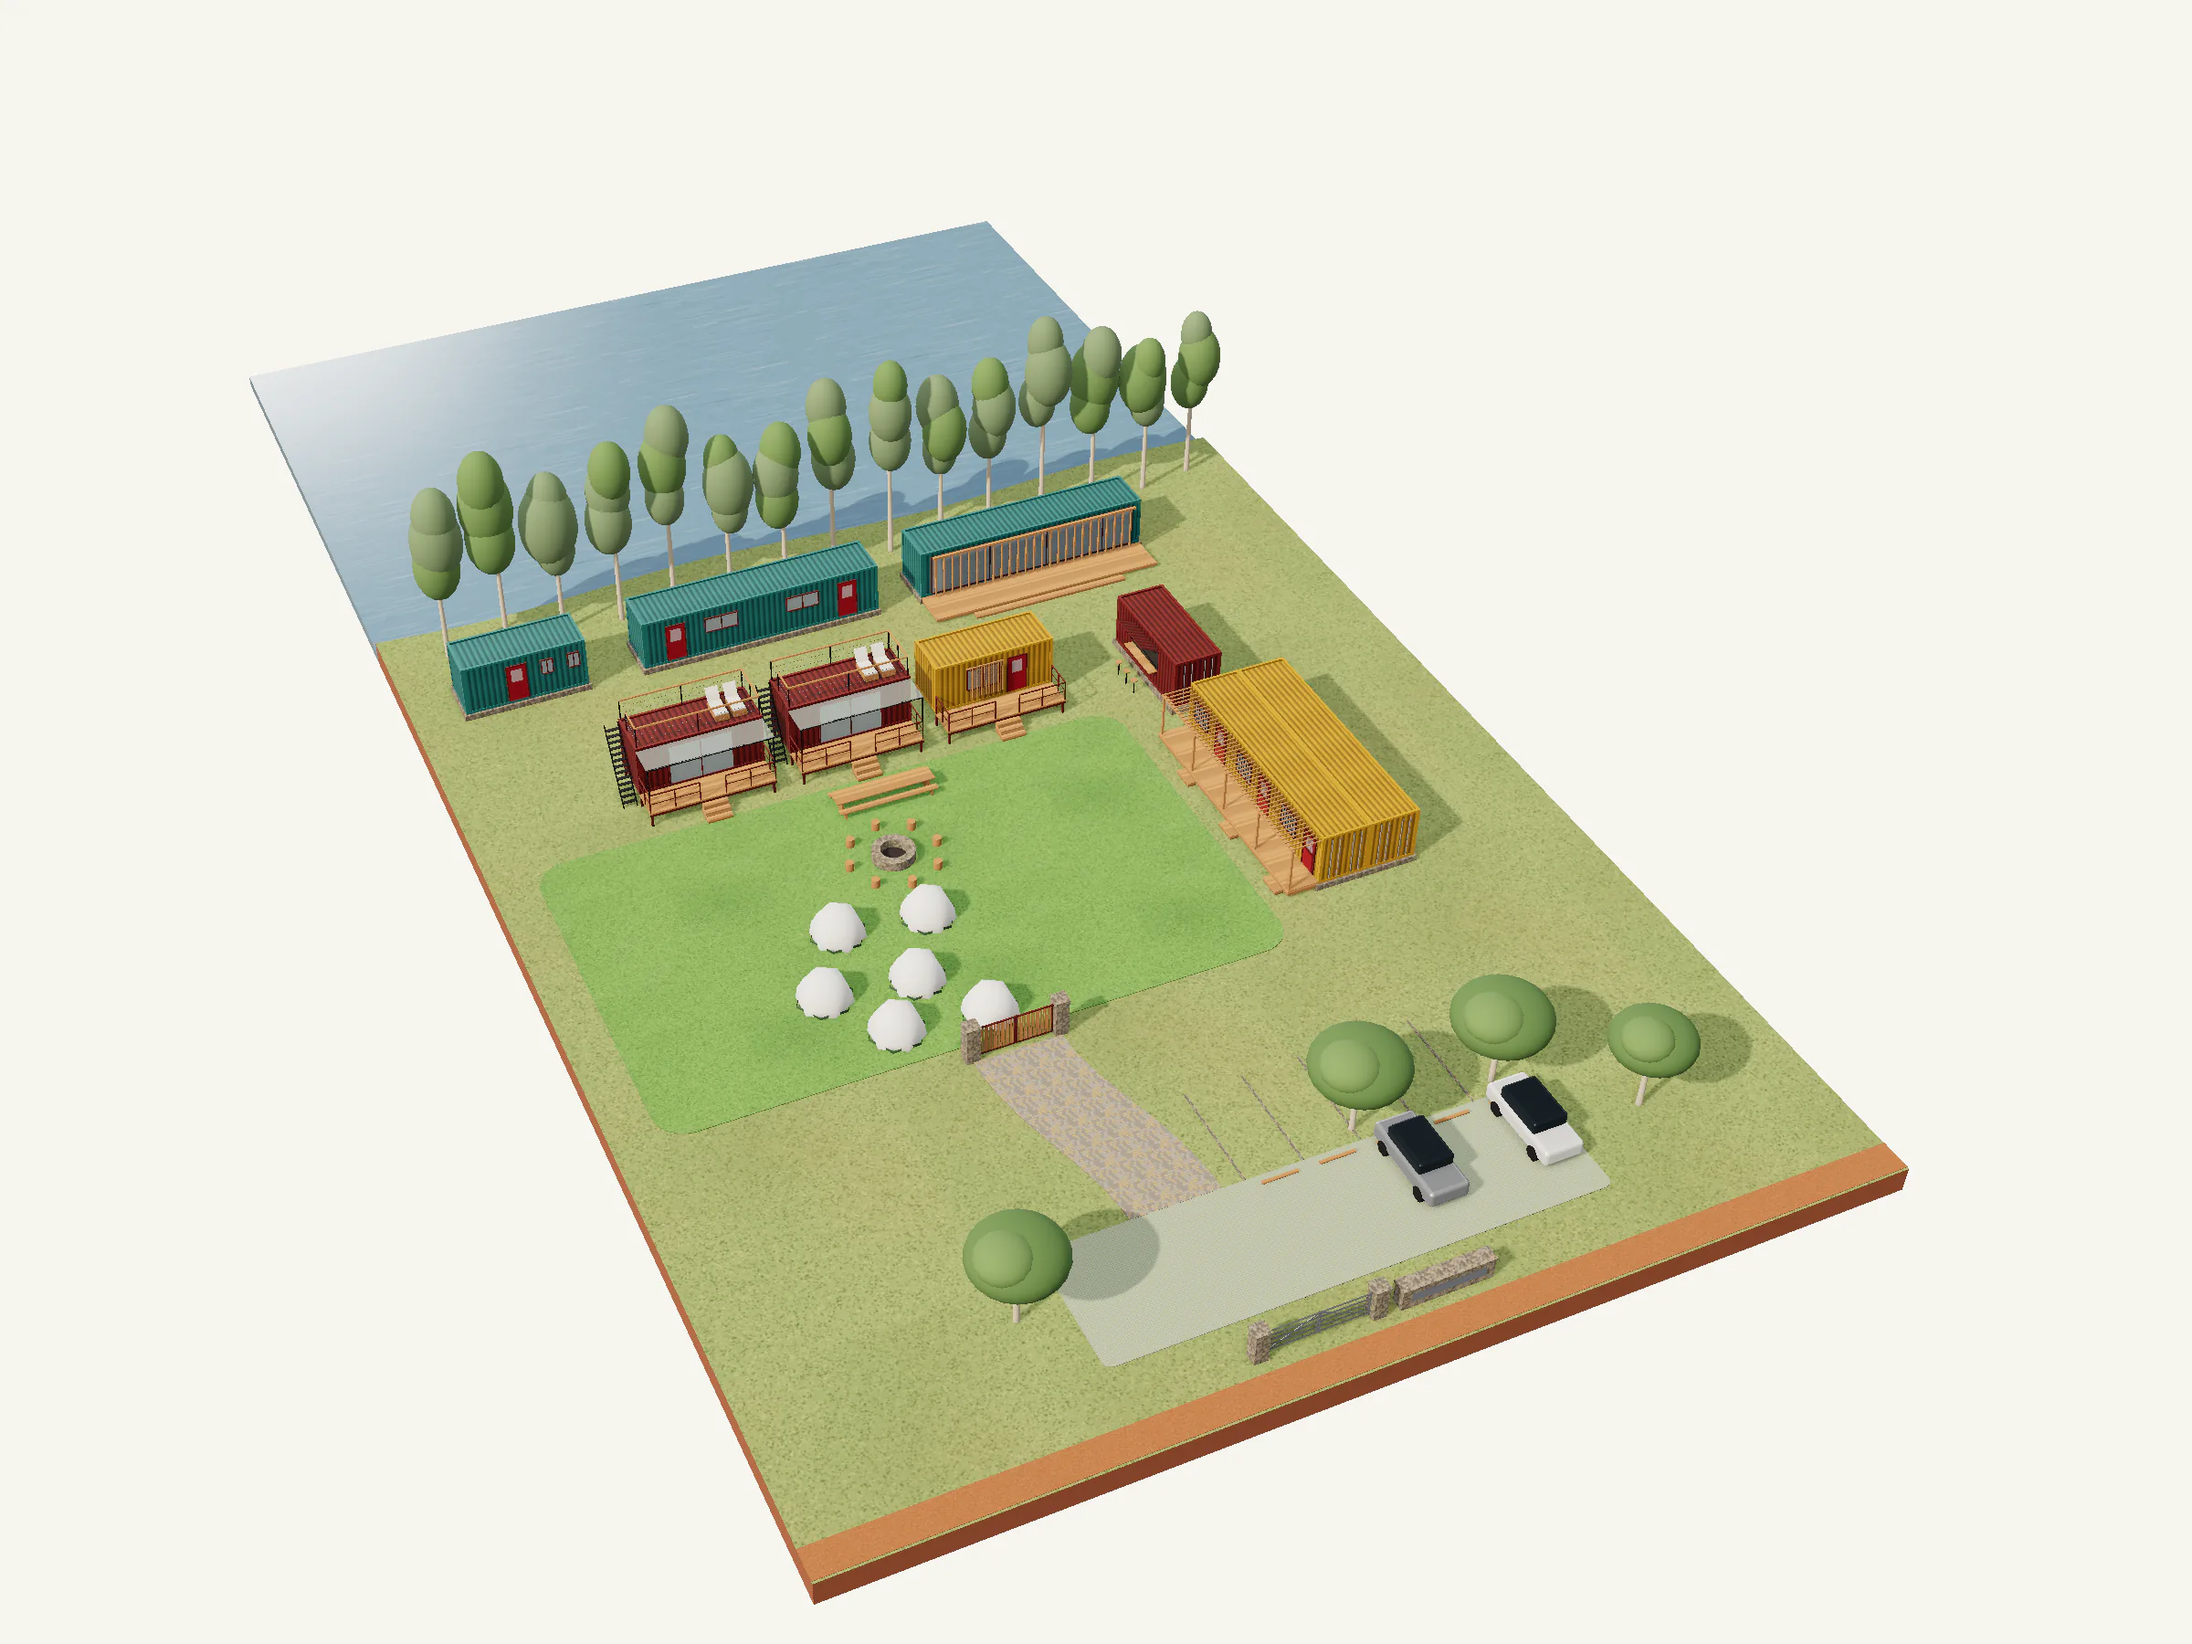
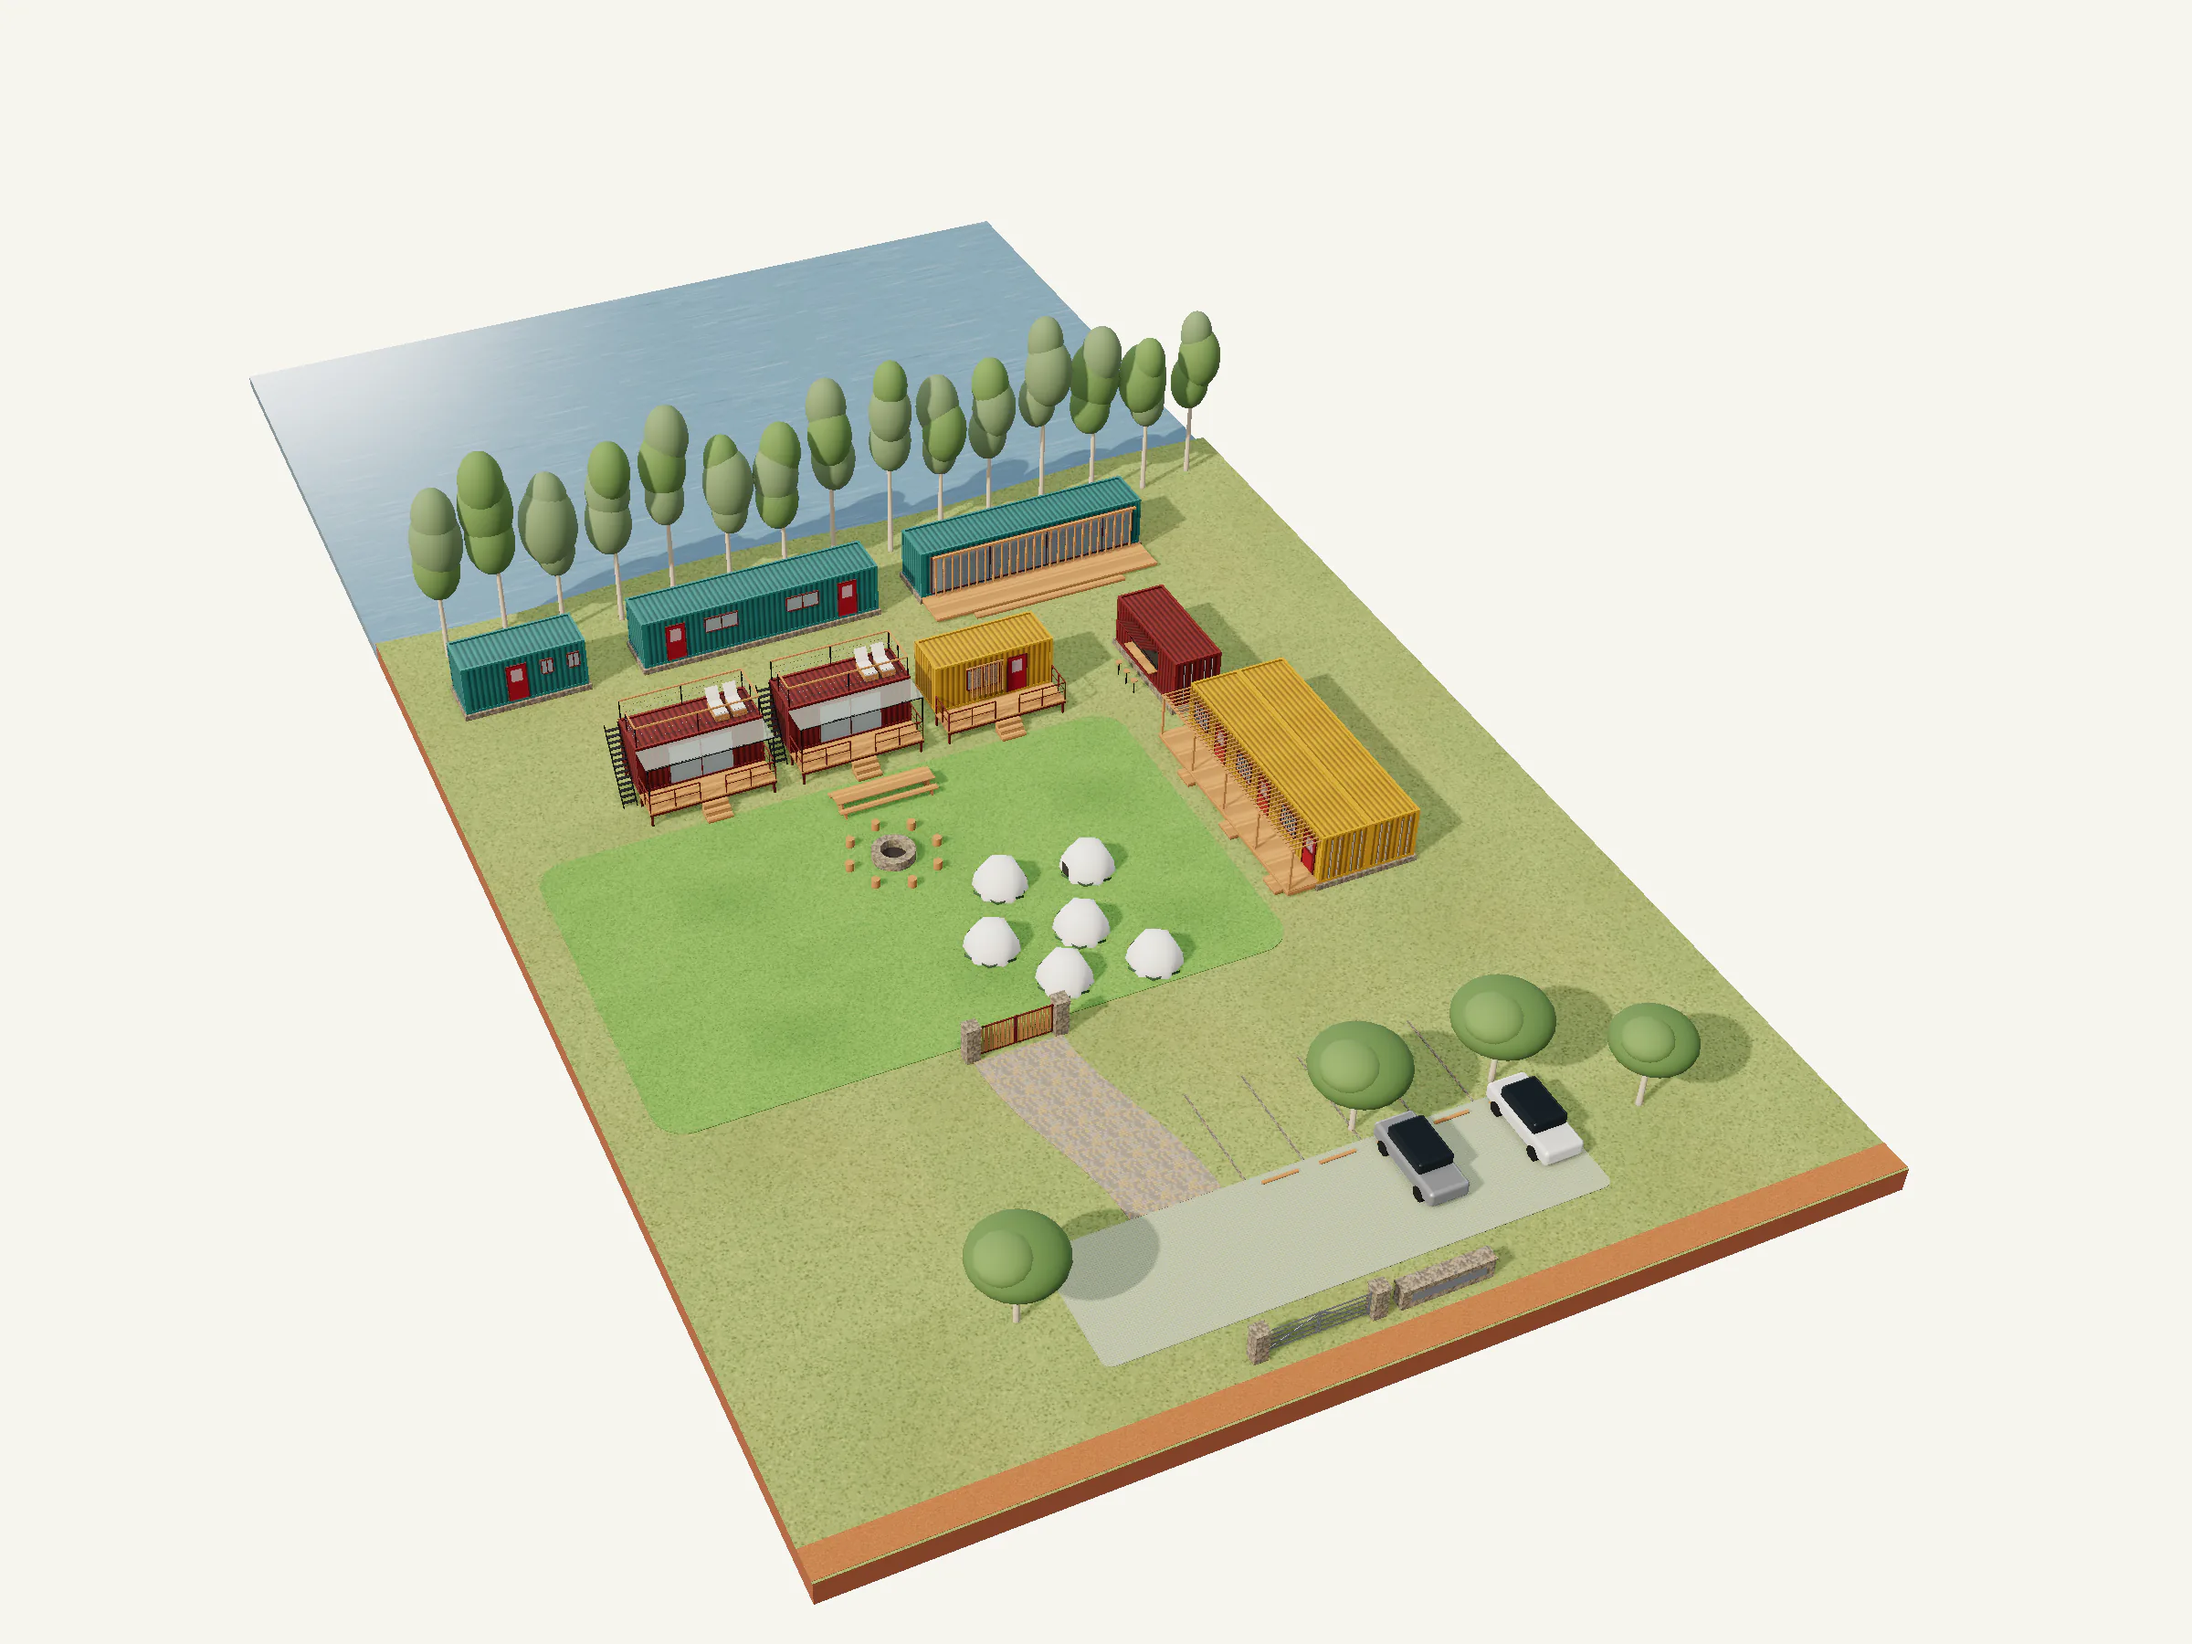
fix(home): camping runs from the fire pit toward the guest rooms
The founder meant the camping lawn to end at the fire pit on the guest-room
side: it now sits between the guest rooms and the fire pit, its right end
flush with the pit's left edge, set a little toward the inner gate. The walk
from the inner gate to the fire is clear again; both drawings are redone.

Claude-Session: https://claude.ai/code/session_01S6J7Hi5HC8BwLHu6Wj1ANE

Changed region(s): [[0.3438, 0.4978, 0.5625, 0.6533]]

diff --git a/src/components/home/copy.ts b/src/components/home/copy.ts
@@ -52,12 +52,12 @@ export const copy = {
   plans: {
     title: "2D",
     label:
-      "Plan of the compound, with the study room at the top and the gates at the bottom. At the top, the 40 ft study room on its deck, and beside it two buildings of their own: a 40 ft galley with a long worktop and two sinks, and a 20 ft public bathroom with two toilet rooms, two hand basins and a urinal. Below it, the row of three 20 ft containers on raised decks facing the courtyard: the farm office next to the bar, then two studios. Down the left, the bar and then the guest-room block in one line, their doors onto the veranda and the courtyard lawn: the stone fire pit with stools round it, a long timber table in front of the middle studio, and six small tents on a camping lawn between the fire pit and the inner gate. The study room's end is in line with the guest rooms. At the bottom, the inner gate, a rock road down to the green parking, and the outer gate beside the Digital Farm sign wall.",
+      "Plan of the compound, with the study room at the top and the gates at the bottom. At the top, the 40 ft study room on its deck, and beside it two buildings of their own: a 40 ft galley with a long worktop and two sinks, and a 20 ft public bathroom with two toilet rooms, two hand basins and a urinal. Below it, the row of three 20 ft containers on raised decks facing the courtyard: the farm office next to the bar, then two studios. Down the left, the bar and then the guest-room block in one line, their doors onto the veranda and the courtyard lawn: the stone fire pit with stools round it, a long timber table in front of the middle studio, and six small tents on a camping lawn between the guest rooms and the fire pit, ending at the fire. The study room's end is in line with the guest rooms. At the bottom, the inner gate, a rock road down to the green parking, and the outer gate beside the Digital Farm sign wall.",
     note: "Illustrative plan: containers drawn to size, layout not surveyed.",
   },
   model: {
     title: "3D",
-    line: "Line drawing of the compound from the air, seen from the entrance and looking toward the lake: the gate, the parking and the rock road in front; on the right, the bar and the guest-room block with their doors onto the courtyard and its fire pit ringed with stools; six small tents on the lawn by the inner gate; across the lawn, a long timber table and the office and two studios on raised decks; the study room beyond them; then trees and the lake.",
+    line: "Line drawing of the compound from the air, seen from the entrance and looking toward the lake: the gate, the parking and the rock road in front; on the right, the bar and the guest-room block with their doors onto the courtyard and its fire pit ringed with stools; six small tents on the lawn between them and the fire pit; across the lawn, a long timber table and the office and two studios on raised decks; the study room beyond them; then trees and the lake.",
     real: "The same view rendered with materials and sunlight: the saffron-yellow guest rooms and office, the oxide-red bar and studios on timber decks, the teal study room, white pop-up tents and a green lawn around the stone fire pit with its log stools, a long timber table, grass parking and a stone road, eucalyptus along the shore and the lake.",
     caption: "Rendered from the design model",
   },

diff --git a/src/components/home/compound-plan.tsx b/src/components/home/compound-plan.tsx
@@ -266,7 +266,7 @@ function Bath({ unit }: { unit: Unit }) {
 }
 
 // What the 2026-10-25 footage shows outside, as the founder wants it planned (D-022): six small pop-up
-// tents on a camping lawn between the fire pit and the inner gate, a long timber table with benches
+// tents on a camping lawn between the guest rooms and the fire pit, ending at the pit, a long timber table with benches
 // where today's unfinished platform stands, and stools round the fire pit. Each at true size.
 const outdoor = compound.outdoor
 function Outdoor() {
@@ -283,7 +283,7 @@ function Outdoor() {
     [ty - width / 2 - gap - bench, ty - width / 2 - gap],
     [ty + width / 2 + gap, ty + width / 2 + gap + bench],
   ]
-  const right = Math.max(...tents.map(([cx]) => cx)) + t
+  const left = Math.min(...tents.map(([cx]) => cx)) - t
   const middle = tents.reduce((n, [, cy]) => n + cy, 0) / tents.length
   return (
     <g>
@@ -299,7 +299,7 @@ function Outdoor() {
           </g>
         )
       })}
-      <text x={f(right + 0.6)} y={f(middle + 0.18)} style={small}>
+      <text x={f(left - 0.6)} y={f(middle + 0.18)} textAnchor="end" style={small}>
         CAMPING
       </text>
       {rows.map(([a, b]) => (

diff --git a/scripts/site/render/compound.html b/scripts/site/render/compound.html
@@ -616,7 +616,7 @@ for (const [id, windows] of [["galley", [[3.2, 4.8], [7.4, 9.0]]], ["bath", [[0.
 }
 
 // ------------------------------------------------------------ outdoors (D-022)
-// Six small pop-up tents on the camping lawn between the fire pit and the inner gate, a long timber
+// Six small pop-up tents on the camping lawn between the guest rooms and the fire pit, a long timber
 // table with benches in front of the middle studio, and log stools round the fire pit.
 {
   const O = C.outdoor, t = O.tent

diff --git a/study/website/render-brief.md b/study/website/render-brief.md
@@ -26,7 +26,7 @@ The homepage shows the compound as it is planned, not as it stands. Its images a
   - **West side (on the right as you walk in):** the guest-room block. Two 40 ft containers are joined side by side into one long, low saffron-yellow building, about 12 × 4.9 m. It holds three en-suite rooms, each about 19 m² [E, D-017] with a bed, shower and WC but no kitchen. Each room has an oxide-red door and window onto a shared eucalyptus veranda.
   - **South side, at 90° (across the lawn as you walk in):** three 20 ft containers in a row on the existing raised oxide-red steel decks, their decks facing the courtyard. The **first, next to the guest rooms, is the farm office** in saffron yellow; the other two are **studios** in deep oxide red, built to the studio design (`/en/studio`, Layout B, D-020): a 3 m sliding glass wall onto a deck under a tinted clear canopy, a galley kitchen, a two-seat sofa, a shower and WC, and an open roof terrace behind a post-and-rail guardrail, with no canopy over it.
   - **Further out, toward the lake:** one 40 ft **study and training room** in muted teal, its west end in line with the guest-room block, with tall glazed doors along its north side onto a timber deck.
-- **Outdoors (from the 2026-10-25 footage, D-022).** A small camping lawn between the fire pit and the inner gate, its west end flush with the fire pit's: six light-canvas pop-up dome tents (about 2.5 m across), doors toward the fire. Log stools in a ring round the fire pit. A long eucalyptus table with two benches on the lawn in front of the middle studio, where today's unfinished timber platform stands.
+- **Outdoors (from the 2026-10-25 footage, D-022).** A small camping lawn between the guest rooms and the fire pit, ending at the fire pit's west edge and set a little toward the inner gate: six light-canvas pop-up dome tents (about 2.5 m across), doors toward the fire. Log stools in a ring round the fire pit. A long eucalyptus table with two benches on the lawn in front of the middle studio, where today's unfinished timber platform stands.
 - **Seven containers in all** (the bar, the joined pair, the office, two studios, the study room). Nothing is stacked, and nothing else is built. The compound sits back from the lake behind a band of trees; nothing new stands at the water's edge (the 50 m lake buffer).
 
 ## 3. Site bible and reference line

diff --git a/study/execution/decision-log.md b/study/execution/decision-log.md
@@ -86,3 +86,5 @@ Update 2026-10-27 (D-022): the plan was compared with the site footage of 2026-1
 Update 2026-10-27 (D-022): the founder moved the camping lawn to the courtyard's corner by the inner gate, across the fire pit from the guest rooms (right and down on the homepage 2D).
 
 Update 2026-10-27 (D-022): the camping lawn moves to sit between the fire pit and the inner gate, its west end flush with the fire pit's west edge (the founder's choice, knowing the tents then stand on the walk from the inner gate to the fire). Both gates are drawn closed.
+
+Update 2026-10-27 (D-022): correction: the founder meant the camping lawn to run from the fire pit toward the guest rooms, ending at the fire pit. It now sits between the guest rooms and the fire pit, its east end flush with the fire pit's west edge, set a little toward the inner gate; the walk from the inner gate to the fire is clear again.
